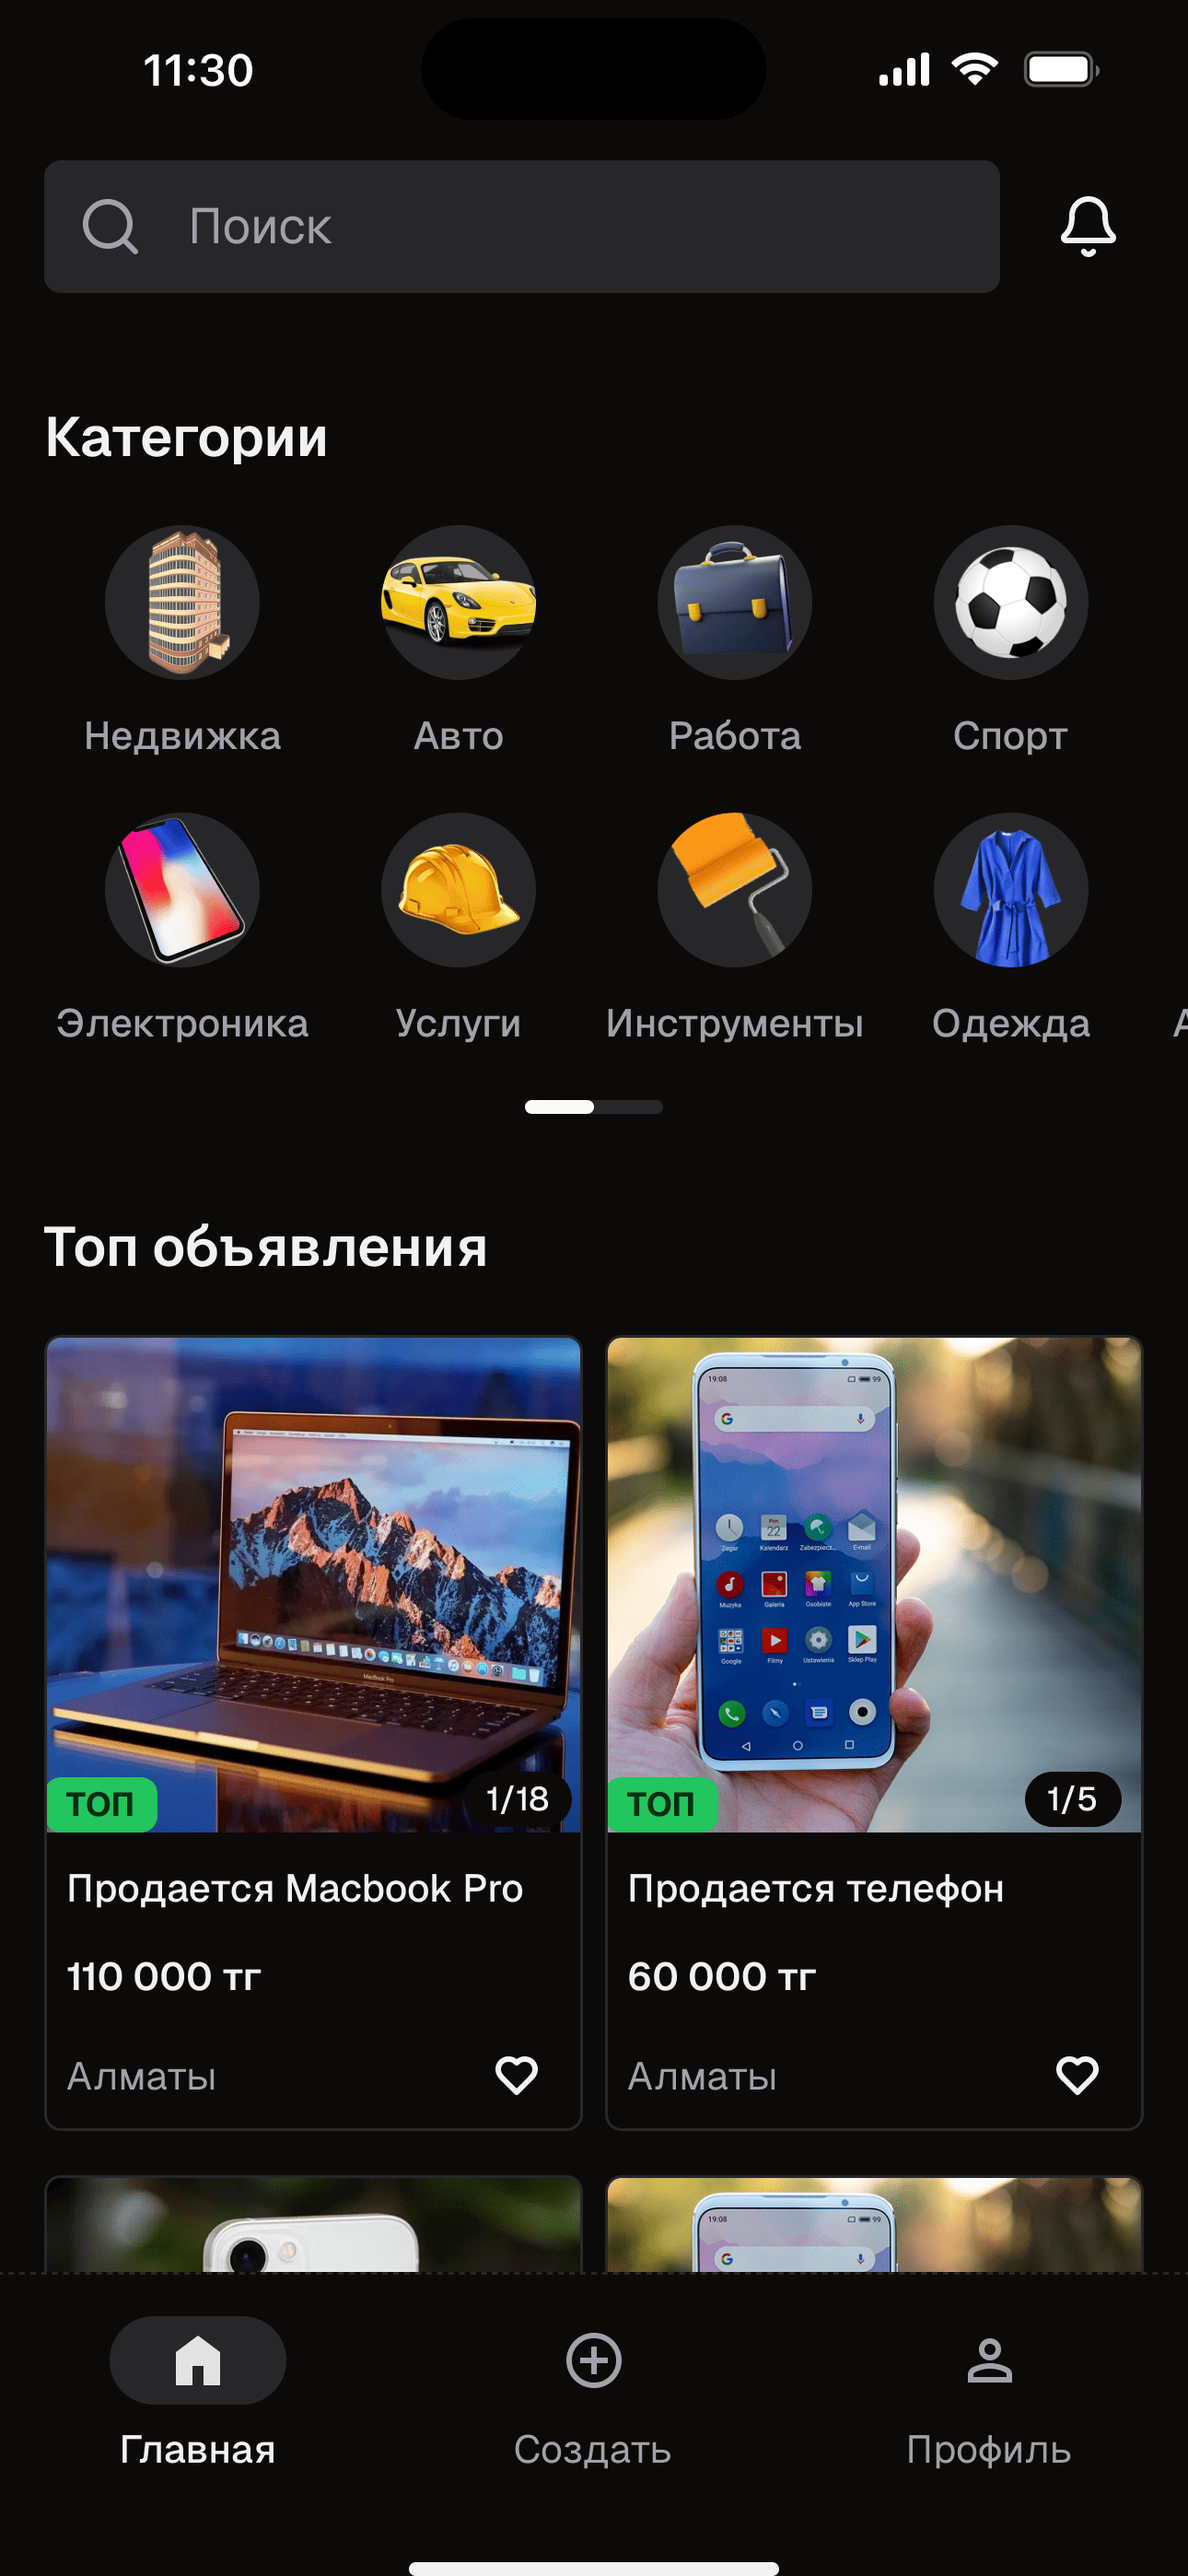
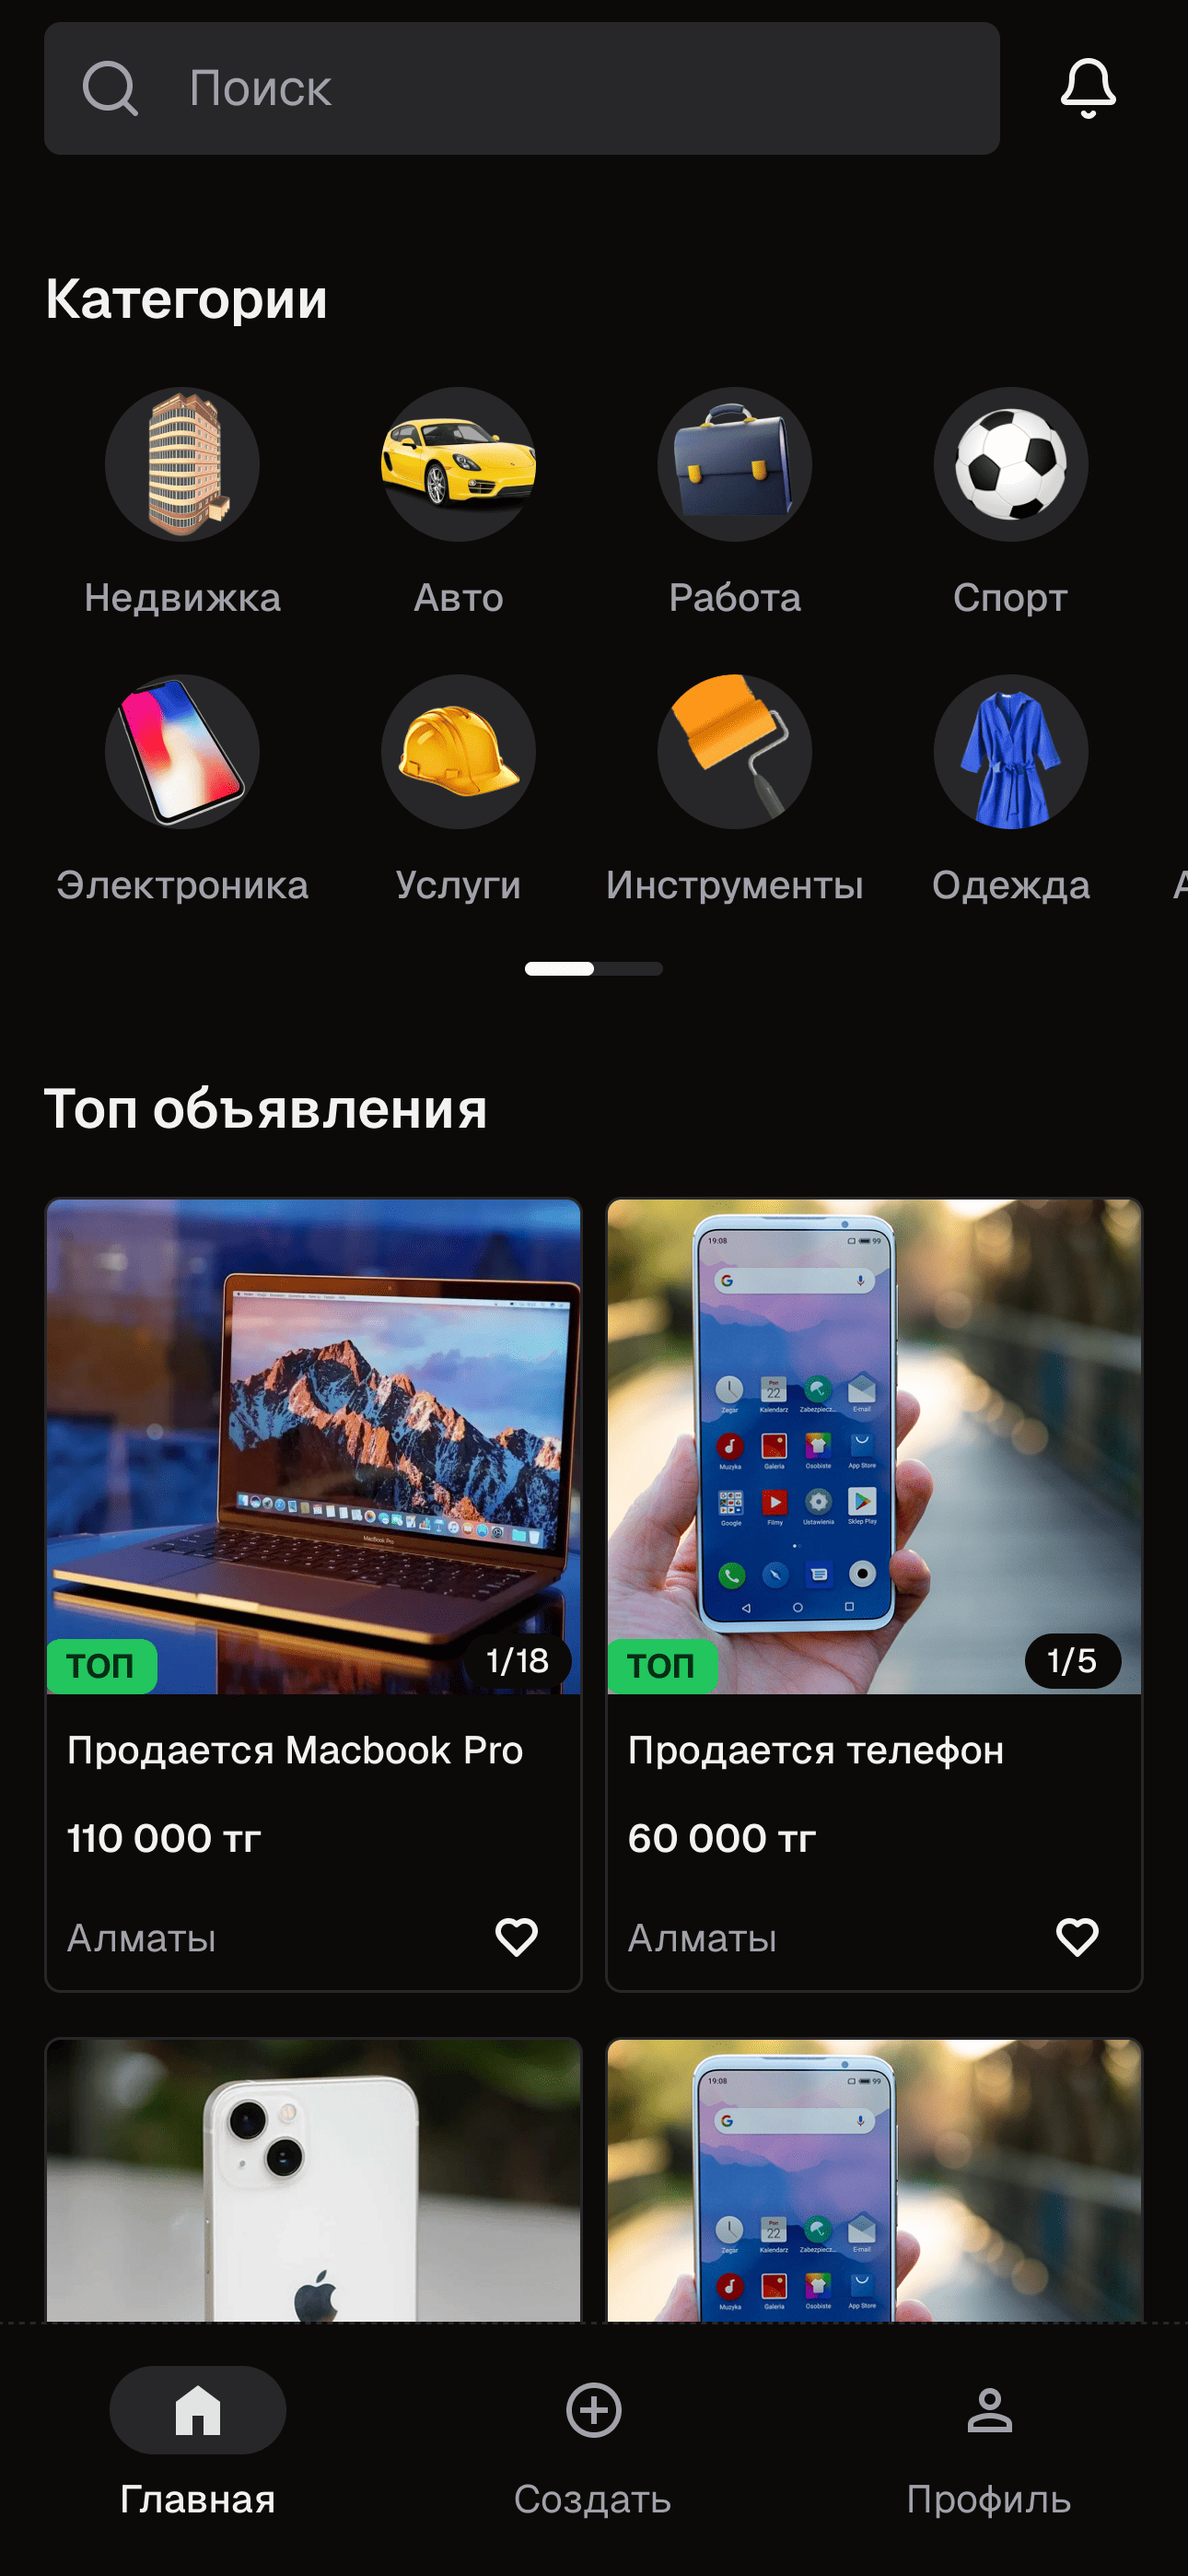
Update meta tags for mobile web app and adjust border property in styles

diff --git a/index.html b/index.html
@@ -4,7 +4,10 @@
 		<meta charset="UTF-8" />
 		<meta content="IE=Edge" http-equiv="X-UA-Compatible" />
 		<meta name="mobile-web-app-capable" content="yes" />
-		<meta name="apple-mobile-web-app-status-bar-style" content="white" />
+		<meta
+			name="apple-mobile-web-app-status-bar-style"
+			content="black-translucent"
+		/>
 		<meta name="apple-mobile-web-app-title" content="Takta.kz" />
 		<meta
 			name="description"

diff --git a/styles/components.css b/styles/components.css
@@ -4,7 +4,7 @@ main {
 	height: 100%;
 	margin-inline: auto;
 	position: relative;
-	border: var(--border);
+	border-inline: var(--border);
 }
 
 img {
